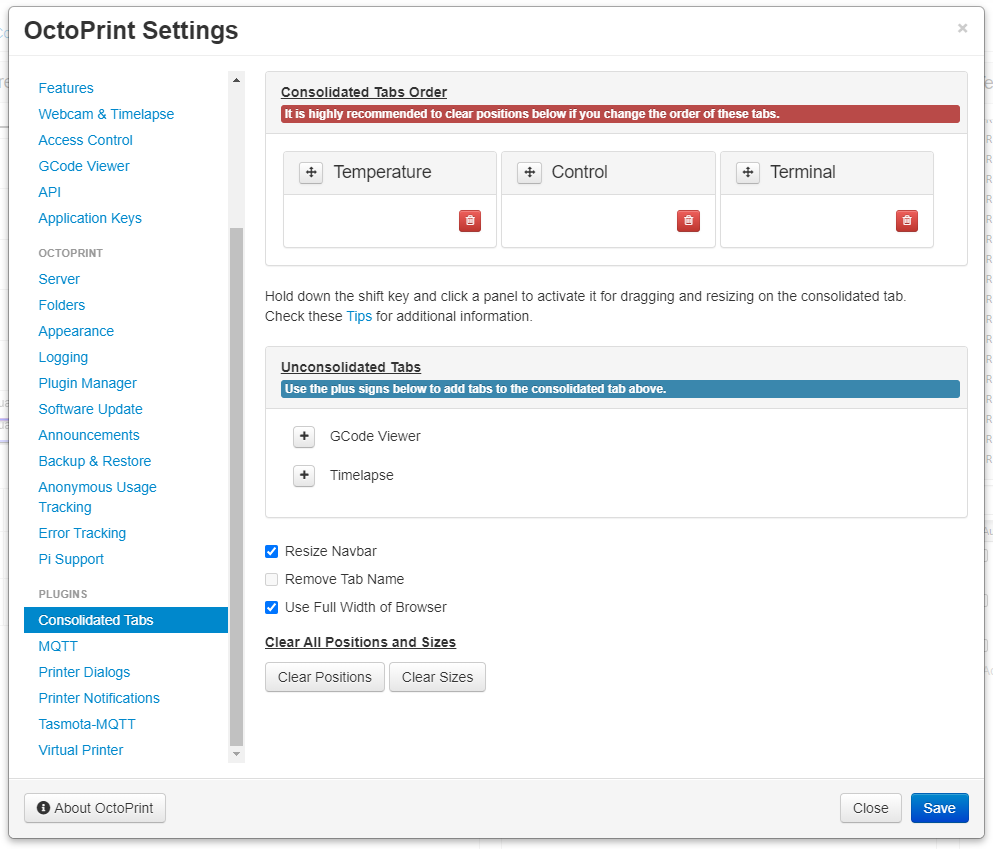
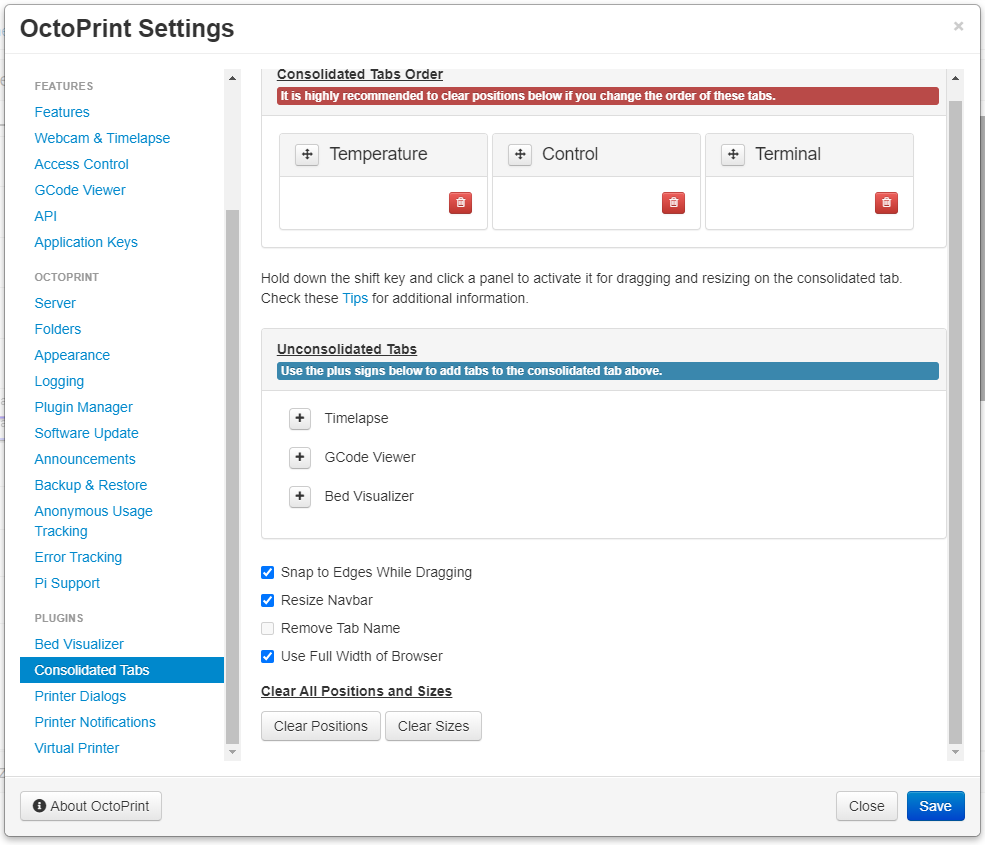
0.1.1 (#22)
* fix compatibility issues related to Fullscreen Webcam plugin
* fix compatibility issues related to TouchUI plugin (will not load when TouchUI is installed and active)
* make draggable snapping optional in settings
* reduce snapping distance while dragging
* only snap to outer edge of panels
* remove wait cursor

diff --git a/octoprint_consolidatedtabs/static/js/consolidatedtabs.js b/octoprint_consolidatedtabs/static/js/consolidatedtabs.js
@@ -60,6 +60,11 @@ $(function() {
         }
 
         self.resize_container = function(){
+		    // bypass if TouchUI is installed and active
+            if (self.touchui && self.touchui.isActive()) {
+                $('li#tab_plugin_consolidatedtabs_link').remove();
+                return
+            }
 		    // OctoPrint container adjustments
             if(self.settings.settings.plugins.consolidatedtabs.full_width()) {
                 $('div.container.octoprint-container').css({'width': '100%'});
@@ -79,6 +84,9 @@ $(function() {
 			self.remove_title = self.settings.settings.plugins.consolidatedtabs.remove_title();
 			self.tab_width = self.settings.settings.plugins.consolidatedtabs.width();
 			self.full_width = self.settings.settings.plugins.consolidatedtabs.full_width();
+			self.drag_snap = self.settings.settings.plugins.consolidatedtabs.drag_snap();
+			self.panelPosition.panel_positions = ko.toJS(self.settings.settings.plugins.consolidatedtabs.panel_positions);
+			self.panelPosition.panel_sizes = ko.toJS(self.settings.settings.plugins.consolidatedtabs.panel_sizes);
 			$('ul#tabs li:not(.dropdown)').each(function(){
 				if($(this).attr('id') !== 'tab_plugin_consolidatedtabs_link' && self.assignedTabsByID().indexOf($(this).attr('id')) < 0){
 					self.availableTabs.push({id: ko.observable($(this).attr('id')),
@@ -105,8 +113,10 @@ $(function() {
             if(self.full_width !== self.settings.settings.plugins.consolidatedtabs.full_width()){
                 return true;
             }
-            return self.tab_width !== self.settings.settings.plugins.consolidatedtabs.width();
-
+            if(self.drag_snap !== self.settings.settings.plugins.consolidatedtabs.drag_snap()) {
+                return true;
+            }
+            return false;
         }
 
 		self.onEventSettingsUpdated = function(){
@@ -138,6 +148,11 @@ $(function() {
 		}
 
 		self.onAllBound = function(allViewModels) {
+		    // bypass if TouchUI is installed and active
+            if (self.touchui && self.touchui.isActive()) {
+                $('li#tab_plugin_consolidatedtabs_link').remove();
+                return
+            }
 			// get all available tab change callbacks
 			ko.utils.arrayForEach(allViewModels,function(item){
 				if((item.onTabChange || item.onAfterTabChange) && item !== self){
@@ -182,10 +197,9 @@ $(function() {
 			});
             $("#tab_plugin_consolidatedtabs > div").selectable({
                 filter: '.panel',
-                cancel: 'input,textarea,button,select,option',
+                cancel: 'input,textarea,button,select,option,img',
                 selected: function( event, ui ) {
                     if(event.shiftKey) {
-                        self.panelPosition = {panel_sizes: {}, panel_positions: {}};
                         $(ui.selected).resizable("option", "disabled", false);
                         $(ui.selected).draggable("option", "disabled", false);
                         $(ui.selected).addClass('panel-primary');
@@ -196,11 +210,9 @@ $(function() {
                     $(ui.unselected).draggable( "option", "disabled", true );
                     $(ui.unselected).removeClass('panel-primary');
                     if(self.saveNeeded()) {
-                        $('.ui-resizable-handle, i.ui-draggable-handle, .panel-heading, body').css({'cursor': 'wait'});
                         OctoPrint.settings.savePluginSettings('consolidatedtabs', self.panelPosition).done(function () {
                             self.onEventSettingsUpdated();
                             self.saveNeeded(false);
-                            $('.ui-resizable-handle, i.ui-draggable-handle, .panel-heading, body').css({'cursor': ''});
                         });
                     }
                 },
@@ -220,8 +232,10 @@ $(function() {
             $("#tab_plugin_consolidatedtabs > div > div.panel").draggable({
                 handle : '.panel-heading',
                 containment : '#tab_plugin_consolidatedtabs > div',
-                snap : true,
+                snap : self.settings.settings.plugins.consolidatedtabs.drag_snap(),
+                snapTolerance : 7,
                 stack: 'div.panel',
+                snapMode : 'outer',
                 zIndex: 100,
                 disabled: true,
                 start: function (event, ui) {
@@ -250,6 +264,11 @@ $(function() {
 		};
 
         self.controlViewModel.onBrowserTabVisibilityChange = function (status) {
+		    // bypass if TouchUI is installed and active
+            if (self.touchui && self.touchui.isActive()) {
+                $('li#tab_plugin_consolidatedtabs_link').remove();
+                return
+            }
             if (status && self.hasWebcam()) {
                 let selected = OctoPrint.coreui.selectedTab;
                 if (self.webcamtab) {
@@ -284,14 +303,6 @@ $(function() {
 				}
 			}
 			OctoPrint.coreui.selectedTab = current;
-/*			if(current === "#tab_plugin_consolidatedtabs" && self.hasTemp()) {
-				if(!self.temperatureViewModel.plot) {
-					self.temperatureViewModel._initializePlot();
-				} else {
-					self.temperatureViewModel.updatePlot();
-				}
-				self.temperatureViewModel.onAfterTabChange("#temp", previous);
-			}*/
 		}
 
 		self.resetPositions = function() {

diff --git a/setup.py b/setup.py
@@ -14,7 +14,7 @@ plugin_package = "octoprint_consolidatedtabs"
 plugin_name = "Consolidated Tabs"
 
 # The plugin's version. Can be overwritten within OctoPrint's internal data via __plugin_version__ in the plugin module
-plugin_version = "0.1.0"
+plugin_version = "0.1.1"
 
 # The plugin's description. Can be overwritten within OctoPrint's internal data via __plugin_description__ in the plugin
 # module

diff --git a/octoprint_consolidatedtabs/__init__.py b/octoprint_consolidatedtabs/__init__.py
@@ -19,7 +19,8 @@ class ConsolidatedtabsPlugin(octoprint.plugin.SettingsPlugin,
 			resize_navbar=True,
 			panel_positions={},
 			panel_sizes={},
-			remove_title=False
+			remove_title=False,
+			drag_snap=True
 		)
 
 	##-- Template mixin

diff --git a/README.md b/README.md
@@ -15,13 +15,16 @@ or manually using this URL:
 
 ## Settings
 
-![screenshot settings](screenshot_settings.png)
+Click the screenshot below to open a YouTube video demonstrating setting up Consolidated Tabs.
 
+[![screenshot settings](screenshot_settings.png)](https://www.youtube.com/watch?v=rrzeOJF2u4A)
+
+- **Snap to Edges While Dragging:** if enabled panels will snap to the edges of other panels while dragging.
 - **Combined Tabs Order:** all the tabs that will be combined into one tab as a panel.
 - **Uncombined Tabs:** tabs that have not been combined and will remain as their own tab.
 - **Resize Navbar:** whether to resize the width of the top navbar to 100% or not.
 - **Remove Tab Name:** don't show the name of the consolidated tab, only possible if all tabs are combined.
-- **Use Full Width of Browser:** If enabled the tab area will be sized to fit the entire width of the browser and the sidebar will be moved to the left.
+- **Use Full Width of Browser:** if enabled the tab area will be sized to fit the entire width of the browser and the sidebar will be moved to the left.
 - **Clear All Positions and Sizes:** use the buttons to clear all position or size customizations, helpful when panels get moved off screen.
 
 ## Tips
@@ -47,12 +50,19 @@ If using Themeify you will want to add extra settings to your Advanced options. 
 
 ## To-Do
 * [ ] Figure out how to get rid of the extra whitespace at the bottom of the page after panels are positioned.
-* [ ] Add YouTube video showing placement and resizing of tabs.
+* [ ] Figure out how to get temp panel to be selected when drop-downs are selected.
+* [X] ~~Add YouTube video showing placement and resizing of tabs.~~
 
 ## Most Recent Release
-**[0.1.0](https://github.com/jneilliii/OctoPrint-ConsolidatedTabs/releases/tag/0.1.0)** (08/22/2020)
 
-* fix issues with Webcam Tab plugin
+**[0.1.1](https://github.com/jneilliii/OctoPrint-ConsolidatedTabs/releases/tag/0.1.1)** (08/24/2020)
+
+* fix compatibility issues related to Fullscreen Webcam plugin
+* fix compatibility issues related to TouchUI plugin (will not load when TouchUI is installed and active)
+* make draggable snapping optional in settings
+* reduce snapping distance while dragging
+* only snap to outer edge of panels
+* remove wait cursor
 
 **[All Releases](https://github.com/jneilliii/OctoPrint-ConsolidatedTabs/releases)**
 
